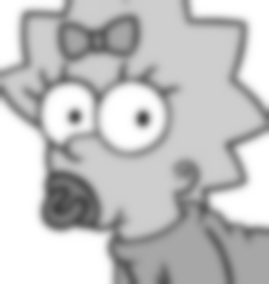
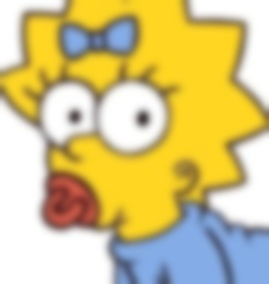
fin de la storie 6 appel des fonctions via CLI

diff --git a/main.py b/main.py
@@ -29,12 +29,10 @@ def file_exist():
     length = len(files)
     if length == 0:
         return f'Le dossier contient {length} image(s)'
-    return f'Le dossier contient {length} image(s)'
+    return True
 
 
-print(file_exist())
-
-
+# Create output if not already exist
 def create_output():
     if not os.path.exists('output'):
         os.mkdir('output')
@@ -62,14 +60,27 @@ def do_all_images_blur(nb):
 def do_all_images_dilate(nb):
     all_img = get_all_images_link()
     create_output()
-    print('DEBUT')
     for x in all_img:
         filter_dilate.filter_dilate(x, nb)
-    print('FINI')
+
+
+def call_filter(filter_name, nb=-1):
+    if True in (create_output(),valid_format()):
+        if filter_name == 'blur':
+            do_all_images_blur(nb)
+        elif filter_name == 'dilate':
+            do_all_images_dilate(nb)
+        elif filter_name == 'grayscale':
+            do_all_images_gray_scale()
+            print("ok")
+        else:
+            print('Filter do not exist !\nblur:<number>\ndilate:<number>\ngrayscale')
+    else:
+        return valid_format() or create_output()
+
+
+print("++++++++++++++++++++++++++++++++++")
 
 
 #do_all_images_blur(21)
 
-print("++++++++++++++++++++++++++++++++++")
-
-do_all_images_blur(39)

diff --git a/image-filter.py b/image-filter.py
@@ -1,11 +1,18 @@
 import sys
+from main import call_filter
 
 args = sys.argv
 
-print(args)
+
+def help():
+    print(f'Usage: Image filter\n-h or ---help : To get all the commands\n'
+          f'-i or --input-dir <directory>\n-o --output-dir <directory>')
+
+
+arg2 = int(args[2])
 
 
 if args[1] in ('-h', '---help'):
-    print(f'{args[1]}')
+    help()
 else:
-    print('Commande inconnu')
+    call_filter(args[1], arg2)

diff --git a/filters/filter_blur.py b/filters/filter_blur.py
@@ -5,8 +5,7 @@ def filter_blur(img, nb):
     if (nb > 2) & (nb % 2 != 0):
         image = cv2.imread('assets/' + img)
         blur = cv2.GaussianBlur(image, (nb, nb), cv2.BORDER_DEFAULT)
-        gray = cv2.cvtColor(blur, cv2.COLOR_BGR2GRAY)
-        cv2.imwrite(f'output/{img}', gray)
+        cv2.imwrite(f'output/{img}', blur)
     elif nb <= 1:
         print("Valeur du flou trop faible")
         return None
